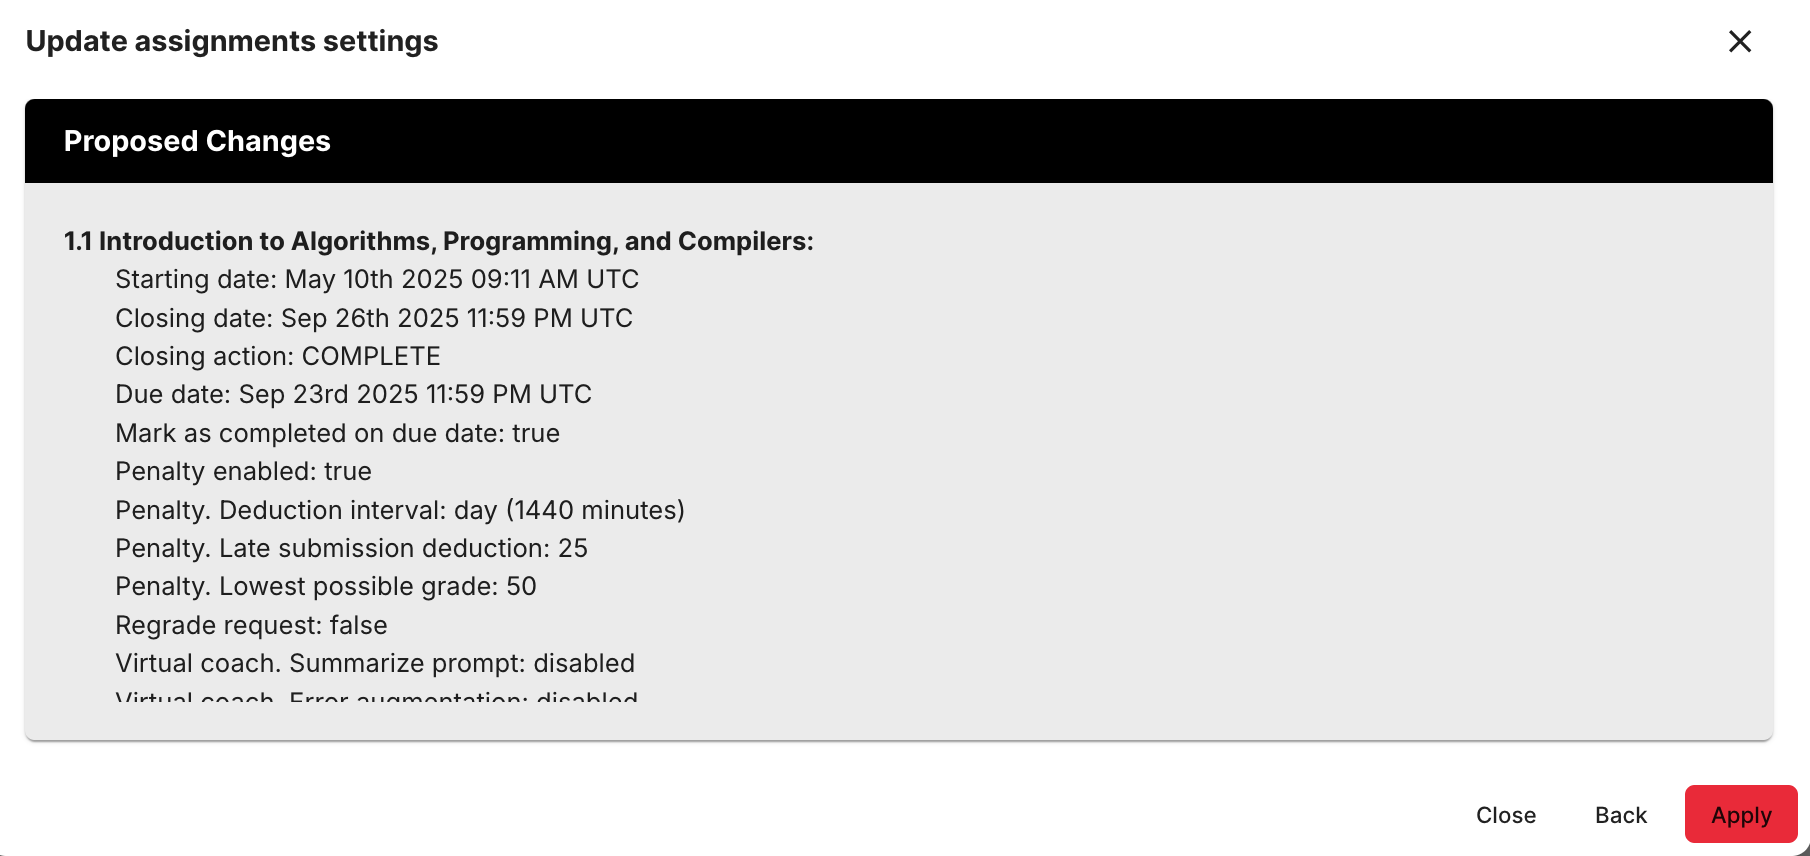
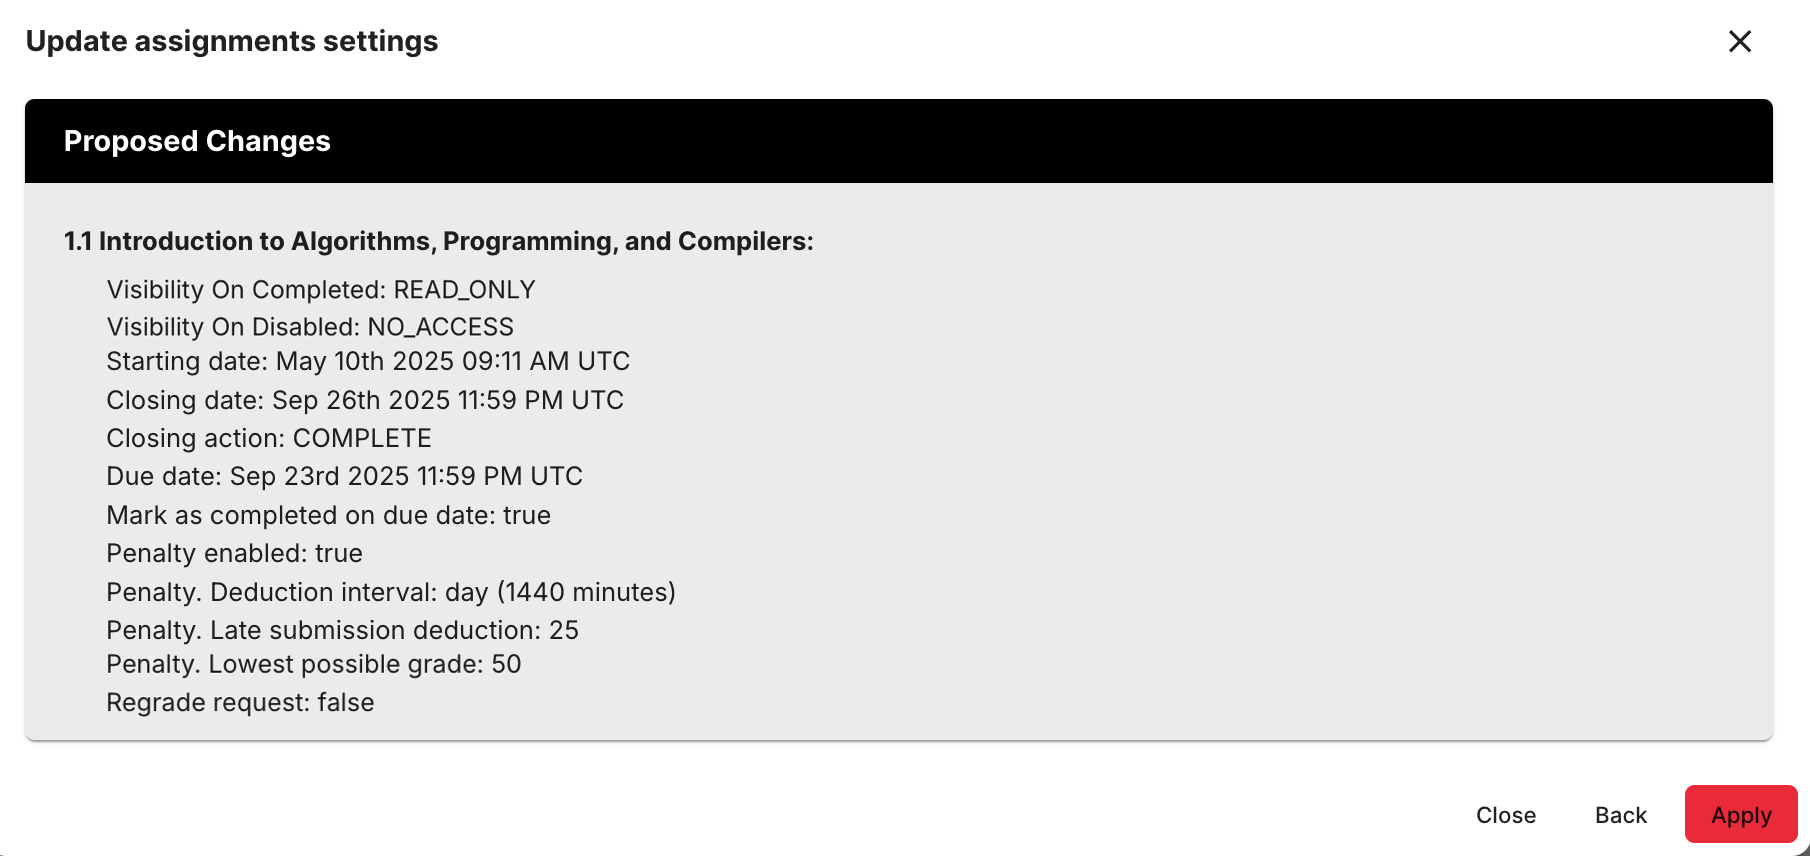
updated table and photo (#453)
<!-- This is an auto-generated comment: release notes by coderabbit.ai
-->
## Summary by CodeRabbit

* **Documentation**
* Restructured bulk-assignment CSV guidance into a clearer list-table
format with standardized headings, updated image reference, expanded
field definitions, and formatting improvements.
* Added new visibility fields for completed/disabled assignments and
clarified data types, possible values, and examples.
* Added a January 2026 changelog note about a new Previous button
appearing in guides when forward-only navigation is disabled.

<sub>✏ Tip: You can customize this high-level summary in your review
settings.</sub>
<!-- end of auto-generated comment: release notes by coderabbit.ai -->

Changed region(s): [[0.0619, 0.3037, 0.3713, 0.8505]]

diff --git a/source/instructors/setupcourses/bulk-assignment-update.rst b/source/instructors/setupcourses/bulk-assignment-update.rst
@@ -10,102 +10,111 @@ Bulk Assignment Update
 You have the ability to perform a bulk update for various assignment settings, including start date/time of the assignment, closing date/time of the assignment, action when assignment closes, due dates and penalties. For more information about these settings, see :ref:`Assignment Duration <assignment-duration>`, :ref:`Prime Assignment Containers <prime-assignment-containers>` and :ref:`Virtual Coach <enable-vc-bulk>` settings using a CSV file.
 
 
-Before you begin, make sure to download the csv template file. You can download the csv template file of your course from  “Download Assignment Information” present in the “Assignment settings” in the  “Bulk Settings area”. You can update the fields as per your requirement(s) and use that csv file to update the assignment settings. 
-Here is a sample screenshot of the csv template:
+Before you begin, make sure to download the CSV template file. You can download the CSV template file of your course from “Download Assignment Information” present in the “Assignment settings” in the  “Bulk Settings area”. You can update the fields as per your requirement(s) and use that CSV file to update the assignment settings. 
+Here is a sample screenshot of the CSV template:
 
 
-.. image:: /img/screenshot-csv-bulk-template.png
-      :alt: Sample csv Template 
+.. image:: /img/guides/screenshot-csv-bulk-template.png
+      :alt: Sample CSV Template 
 
 
 
-Things you should know about the csv template:
-
+Things you should know about the CSV template:
    - Header names must be same as row 1 of above CSV
-   - If the specific field is empty then the respective setting will not be updated     
-   - All field are case-insensitive so complete and COMPLETE are same
-   - In the column 'assignment', instead of Assignment Name you can also use Assignment ID or LTI Integration URL of the assignment for the assignment identification (sometimes you may have multiple assignments with the same name so you can use these other unique identifiers to avoid any conflicts)
-
-      - Check out :ref:`Get the Course and Assignment ID <get-course-assignment-id>` to see how you can get the assignment ID.
-      - Check out :ref:`LTI Integration Assignment URLs <lti-integration-assignment-urls>` to see how you can get LTI Integration URL of the assignment or you can export the LTI Integration URLs of all assignments in the course, see :ref:`Export LTI Settings <export-lti>`
+   - If a specific field is empty then the respective setting will not be updated     
+   - All fields are case-insensitive so complete and COMPLETE are same
    - If :ref:`Prime Setting <prime-assignment-containers>` is not enabled for the assignment but the prime_time is defined in the CSV then the Prime setting will be enabled automatically
 
 
 
 
-**Here is a reference guide on how to update your csv template file:** 
+**Here is a reference guide on how to update your CSV template file:** 
 
 
-+-------------------------------+---------------+------------------------+--------------------------------------------------------------------------------------+
-| Column Name                   | Data Type     | Possible Values        | Description                                                                          |
-+===============================+===============+========================+======================================================================================+
-| name                          | text          | assignment name(s)     | The assignment name goes in this cell.                                               |
-+-------------------------------+---------------+------------------------+--------------------------------------------------------------------------------------+
-| start_time                    | integer       | mm/dd/yyyy h:mm XX     | Specify the start time, date (m/d/year) and the time (h:mm) and identify if its      |
-|                               | and text      | 5/2/2025 9:11 AM       | morning or night (XX).                                                               |
-+-------------------------------+---------------+------------------------+--------------------------------------------------------------------------------------+
-| closing_time                  | integer       | mm/dd/yyyy h:mm XX     | Specify the closing time, the date (m/d/year) and the time (h:mm) and identify if    |
-|                               | and text      | 05/26/2025 11:59 PM    | its morning or night (XX).                                                           |
-+-------------------------------+---------------+------------------------+--------------------------------------------------------------------------------------+
-| closing_action                | text          | DISABLE_AND_COMPLETE,  | Specify what action you want to take when the assignment closes. You currently       |
-|                               |               | DISABLE, COMPLETE      | have 3 options:                                                                      |
-|                               |               |                        |                                                                                      |
-|                               |               |                        | 1. Disable assignment and mark as complete                                           |
-|                               |               |                        |                                                                                      |
-|                               |               |                        | 2. Disable assignment                                                                |
-|                               |               |                        |                                                                                      |
-|                               |               |                        | 3. Mark as complete                                                                  |
-+-------------------------------+---------------+------------------------+--------------------------------------------------------------------------------------+
-| due_at                        | integer       | mm/dd/yyyy h:mm XX     | Specify the due date, the date (m/d/year) and the time (h:mm) and identify if its    |
-|                               | and text      | 05/23/2025 11:59 PM    | morning or night (XX).                                                               |
-|                               |               |                        |                                                                                      |
-|                               |               |                        | Note: For more information about this setting please visit                           |
-|                               |               |                        | :ref:`Assignment Duration <assignment-duration>`                                     |           
-+-------------------------------+---------------+------------------------+--------------------------------------------------------------------------------------+
-| mark_as_completed_on_due_date | text          | TRUE,                  | Identify whether you would like the assignment to be marked completed on the due     |
-|                               |               | FALSE                  | date.                                                                                |
-+-------------------------------+---------------+------------------------+--------------------------------------------------------------------------------------+
-| penalty_enabled               | text          | TRUE,                  | Identify if you want there to be a penalty for late submission of the assignment.    |
-|                               |               | FALSE                  |                                                                                      |
-+-------------------------------+---------------+------------------------+--------------------------------------------------------------------------------------+
-| deduction_interval            | text          | day,                   | If you have elected to have a penalty (penalty_enabled: TRUE), then in this cell     |
-|                               |               | hour                   | you identify if you want the deduction to be by hour or by day after the due date.   |
-+-------------------------------+---------------+------------------------+--------------------------------------------------------------------------------------+
-| deduction_percent             | integer       | any whole number       | If you have elected to have a penalty (penalty_enabled: TRUE), then in this cell     |
-|                               |               |                        | you identify the deduction percentage. If you want to deduct 5%, then you would      |
-|                               |               |                        | just put "5".                                                                        |
-+-------------------------------+---------------+------------------------+--------------------------------------------------------------------------------------+
-| lowest_grade_percent          | integer       | any whole number       | Identify the lowest possible grade a student can receive for this assignment.        |
-|                               |               | between 0 and 100      |                                                                                      |
-|                               |               |                        | Note: For more information on penalty deductions, please                             |
-|                               |               |                        | :ref:`Penalties <penalties>`                                                         |
-+-------------------------------+---------------+------------------------+--------------------------------------------------------------------------------------+
-| allow_regrade_request         | text          | TRUE,                  | Identify if you want to allow students to request for a regrade of their             |
-|                               |               | FALSE                  | assignment.                                                                          |
-+-------------------------------+---------------+------------------------+--------------------------------------------------------------------------------------+
-| prime_time                    | integer       | mm/dd/yyyy h:mm XX     | Specify the Start Time when you want the containers available.                       |
-|                               | and text      | 05/08/2025 06:44 PM    |                                                                                      |
-|                               |               |                        | Note: For more information about this setting, please visit                          |
-|                               |               |                        | :ref:`Prime Assignment Containers <prime-assignment-containers>`                     |
-+-------------------------------+---------------+------------------------+--------------------------------------------------------------------------------------+
-| prime_count                   | integer       | any whole number       | In this cell you will specify the Number of Students that will start the             |
-|                               |               |                        | assignment at the same time.                                                         |
-|                               |               |                        |                                                                                      |
-|                               |               |                        |  Note: For more information about this setting, please visit                         |
-|                               |               |                        |  :ref:`Prime Assignment Containers <prime-assignment-containers>`                    |
-+-------------------------------+---------------+------------------------+--------------------------------------------------------------------------------------+
-| coach_summarize_prompt        | text          | TRUE,                  | Identify whether the student can request a summary of the assessment prompt or not.  |
-|                               |               | FALSE                  |                                                                                      |
-+-------------------------------+---------------+------------------------+--------------------------------------------------------------------------------------+
-| coach_error_augmentation      | text          | TRUE,                  | Identify whether you want to provide more detailed explanations for error message    |
-|                               |               | FALSE                  | text on request.                                                                     |
-+-------------------------------+---------------+------------------------+--------------------------------------------------------------------------------------+
-| coach_next_steps_hint         | text          | TRUE,                  | Identify whether the student can request hints for completing the assessment         |
-|                               |               | FALSE                  | requirements.                                                                        |
-+-------------------------------+---------------+------------------------+--------------------------------------------------------------------------------------+
+.. list-table:: Assignment Configuration Fields
+   :header-rows: 1
+   :widths: 15 10 10 65
+
+   * - Column Name
+     - Data Type
+     - Possible Values
+     - Description
+   * - name
+     - text
+     - assignment name(s)
+     - The name of the assignment.
+   * - visibility_on_completed
+     - text
+     - READ_ONLY_WITH_RESUBMIT, READ_ONLY, NO_ACCESS, NO_ACCESS_UNTIL_GRADES_RELEASED
+     - Access students have to a completed assignment.
+   * - visibility_on_disabled
+     - text
+     - NO_ACCESS, READ_ONLY, NO_ACCESS_UNTIL_GRADES_RELEASED
+     - Access students have to a disabled assignment.
+   * - start_time
+     - integer and text
+     - mm/dd/yyyy h:mm AM/PM (e.g., 05/02/2025 9:11 AM)
+     - Start date (mm/dd/yyyy), time (h:mm), and AM or PM.
+   * - closing_time
+     - integer and text
+     - mm/dd/yyyy h:mm AM/PM (e.g., 05/26/2025 11:59 PM)
+     - Closing date (mm/dd/yyyy), time (h:mm), and AM or PM.
+   * - closing_action
+     - text
+     - DISABLE_AND_COMPLETE, DISABLE, COMPLETE
+     - Actions to take when the assignment closes. 
+   * - due_at
+     - integer and text
+     - mm/dd/yyyy h:mm AM/PM (e.g., 05/23/2025 11:59 PM)
+     - Due date (mm/dd/yyyy), time (h:mm), and AM or PM. For more information, see :ref:`Assignment Duration <assignment-duration>`.
+   * - mark_as_completed_on_due_date
+     - text
+     - TRUE, FALSE
+     - Marked completed on the due date.
+   * - penalty_enabled
+     - text
+     - TRUE, FALSE
+     - Penalty for late submission of the assignment.
+   * - deduction_interval
+     - text
+     - day, hour
+     - Penalty deduction interval
+   * - deduction_percent
+     - integer
+     - any whole number
+     - Penalty deduction percent
+   * - lowest_grade_percent
+     - integer
+     - any whole number between 0 and 100
+     - Lowest possible grade a student can receive for this assignment. Note: For more information on penalty deductions, please see :ref:`Penalties <penalties>`.
+   * - allow_regrade_request
+     - text
+     - TRUE, FALSE
+     - Allow students to request for a regrade of their assignment.
+   * - prime_time
+     - integer and text
+     - mm/dd/yyyy h:mm AM/PM (e.g., 05/08/2025 6:44 PM)
+     - Start time when you want the containers available. For more information, see :ref:`Prime Assignment Containers <prime-assignment-containers>`.
+   * - prime_count
+     - integer
+     - any whole number
+     - Number of students that will start the assignment at the same time. Note: For more information about this setting, please visit :ref:`Prime Assignment Containers <prime-assignment-containers>`
+   * - coach_summarize_prompt
+     - text
+     - TRUE, FALSE
+     - Student can request a summary of the assessment prompt.
+   * - coach_error_augmentation
+     - text
+     - TRUE, FALSE
+     - Provide more detailed explanations for error message text on request.
+   * - coach_next_steps_hint
+     - text
+     - TRUE, FALSE
+     - Student can request hints for completing the assessment requirements.
 
 
-Once you have updated/modified your csv template file now you are ready to bulk update the assignment settings.
+
+Once you have updated/modified your CSV template file, you are now ready to bulk update the assignment settings.
 
 To bulk update the assignments settings, follow these steps:
 
@@ -117,14 +126,14 @@ To bulk update the assignments settings, follow these steps:
 3. Select or drag and drop the CSV file in which you have defined all the required settings.
 
    .. image:: /img/select-csv-batch-update.png
-      :alt: Select csv Batch Update
+      :alt: Select CSV Batch Update
 
 
 4. You will see the test result in the CSV Test Run section (you may also see the error messages if something is not correct in your CSV file)
 
 
    .. image:: /img/batch-csv-test-run.png
-      :alt: Batch csv Test Run
+      :alt: Batch CSV Test Run
 
 
    Click **Apply** to reflect these settings to your actual assignments settings

diff --git a/source/instructors/getstarted/support/changelog.rst b/source/instructors/getstarted/support/changelog.rst
@@ -15,6 +15,7 @@ We do not report small bug fixes or issues that affect individual users, who we 
 
 **January 2026**
 
+- `[F] [28th]`: A Previous button is now available in guides as long as :ref:`Forward Only Navigation <exam-proctoring>` is not enabled.
 - `[F] [14th]`: Added :ref:`Batch Assessment Update <batch-assessment-update>` to update assessment settings in bulk using a .xlsx file.
 - `[I] [7th]`: Add a way to :ref:`Enable or disable extensions on a course level <course-coach-settings>`.
 
